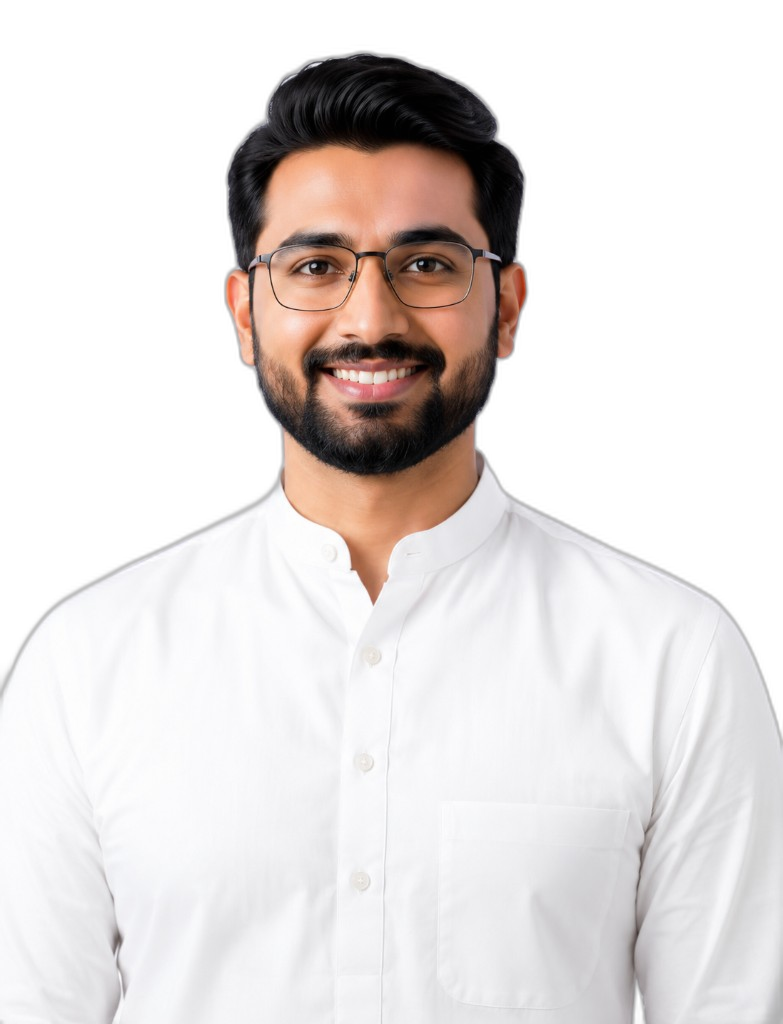
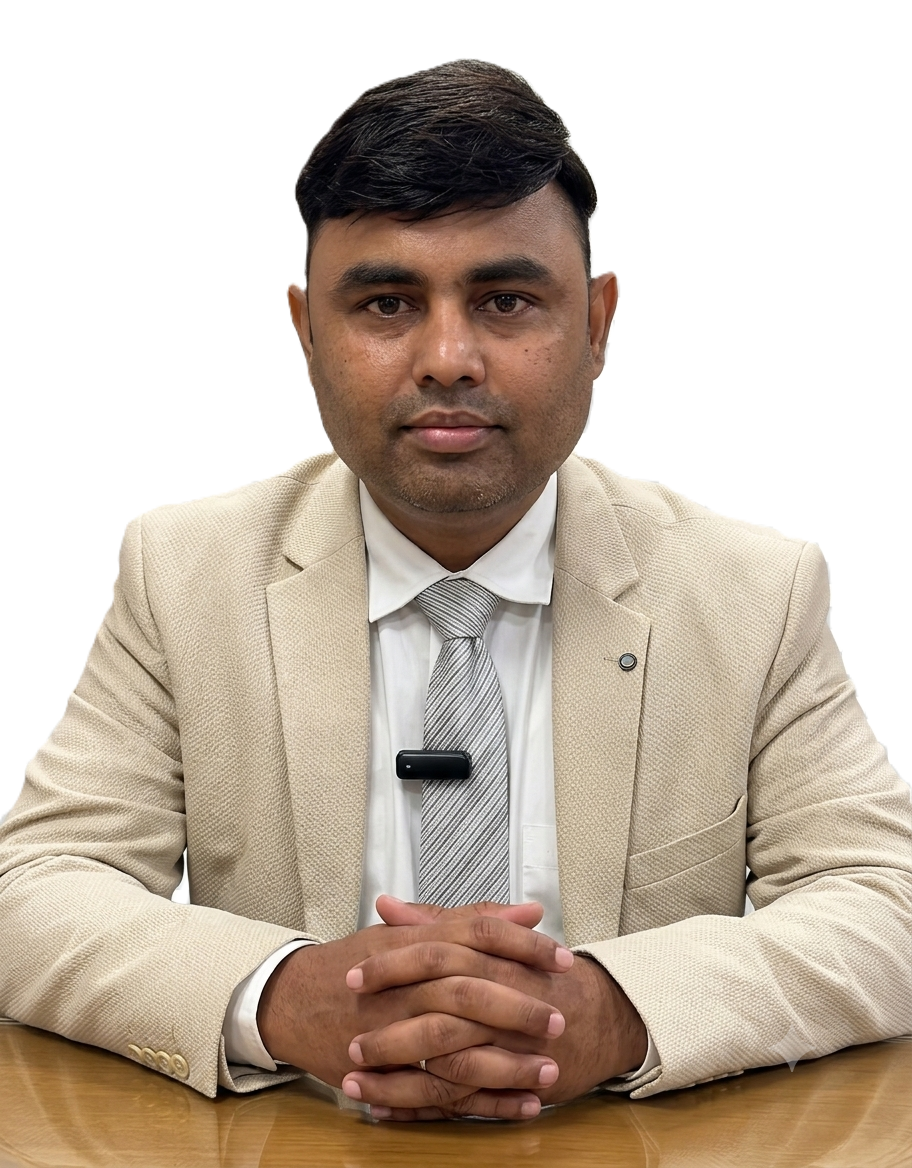
image update

diff --git a/src/components/CongratulationsDialog.tsx b/src/components/CongratulationsDialog.tsx
@@ -10,9 +10,19 @@ type CongratulationsDialogProps = {
   onClose?: () => void;
 };
 
+declare global {
+  interface Window {
+    oaiq?: (...args: unknown[]) => void;
+  }
+}
+
 export default function CongratulationsDialog({ onClose }: CongratulationsDialogProps) {
   const router = useRouter();
-
+  const handleJoinNowClick = () => {
+    if (typeof window !== "undefined" && window.oaiq) {
+      window.oaiq("measure", "lead_created", { type: "customer_action" });
+    }
+  };
   const handleClose = () => {
     if (onClose) {
       onClose();
@@ -74,7 +84,27 @@ export default function CongratulationsDialog({ onClose }: CongratulationsDialog
       </div>
 
       <div className="congrats-actions">
-        <a
+
+      <a
+  href={WHATSAPP_COMMUNITY_LINK}
+  className="congrats-btn-join"
+  target="_blank"
+  rel="noopener noreferrer"
+  onClick={handleJoinNowClick}
+>
+  <span className="congrats-btn-icon" aria-hidden>
+    <WhatsAppIcon />
+  </span>
+
+  <span className="congrats-btn-label">
+    Join Now
+  </span>
+
+  <span className="congrats-btn-arrow" aria-hidden>
+    →
+  </span>
+</a>
+        {/* <a
           href={WHATSAPP_COMMUNITY_LINK}
           className="congrats-btn-join"
           target="_blank"
@@ -87,7 +117,7 @@ export default function CongratulationsDialog({ onClose }: CongratulationsDialog
           <span className="congrats-btn-arrow" aria-hidden>
             →
           </span>
-        </a>
+        </a> */}
         {/* <Link href="/live-sessions" className="congrats-btn-secondary">
           <span className="congrats-btn-icon" aria-hidden>
             <LotusIcon />

diff --git a/src/app/just11/layout.tsx b/src/app/just11/layout.tsx
@@ -1,6 +1,7 @@
 import Script from "next/script";
 
 const META_PIXEL_ID = "923795200397258";
+const OPENAI_PIXEL_ID = "64bpVFhUKavKZpcyE7su9S";
 
 export default function Just99Layout({
   children,
@@ -34,6 +35,16 @@ fbq('track', 'PageView');
         />
       </noscript>
       {/* End Meta Pixel Code */}
+
+      {/* OpenAI Pixel Code */}
+      <Script id="openai-pixel-just11" strategy="afterInteractive">
+        {`
+!function(w,d,s,u){if(w.oaiq)return;var q=function(){q.q.push(arguments)};q.q=[];w.oaiq=q;var j=d.createElement(s);j.async=1;j.src=u;var f=d.getElementsByTagName(s)[0];f.parentNode.insertBefore(j,f)}(window,document,"script","https://bzrcdn.openai.com/sdk/oaiq.min.js");
+oaiq("init",{pixelId:"${OPENAI_PIXEL_ID}",debug:true});
+        `}
+      </Script>
+      {/* End OpenAI Pixel Code */}
+
       <div className="just99-layout just99-layout-fit">{children}</div>
     </>
   );

diff --git a/src/components/communityJoin/CommunityJoinExperience.tsx b/src/components/communityJoin/CommunityJoinExperience.tsx
@@ -222,6 +222,17 @@ export default function CommunityJoinExperience({
         source,
       );
 
+
+      // OpenAI Pixel Code 
+      if (typeof window !== "undefined" && window.oaiq) {
+        window.oaiq(
+          "measure",
+          "order_created",
+          { type: "contents" }
+        );
+      }
+  
+
       try {
         const status = await checkCommunityJoinPaymentStatus();
         if (status?.success === true) {
@@ -847,7 +858,7 @@ function FormPanel({
             {isPaying ? "Opening payment..." : "Pay Now"}
           </button>
         </form>
-
+ 
         <ul className="just99-lead-checks">
           <li>
             <GoldCheckIcon />

diff --git a/src/components/communityJoin/Just99LandingSections.tsx b/src/components/communityJoin/Just99LandingSections.tsx
@@ -94,14 +94,14 @@ export default function Just99LandingSections() {
               ))}
             </ul>
 
-            <a
+            {/* <a
               href={JUST99_WEBINAR.paymentLink}
               target="_blank"
               rel="noopener noreferrer"
               className="just99-webinar-cta"
             >
               Join Webinar for ₹{COMMUNITY_JOIN_PRICE_INR}
-            </a>
+            </a> */}
           </div>
         </div>
       </section>
